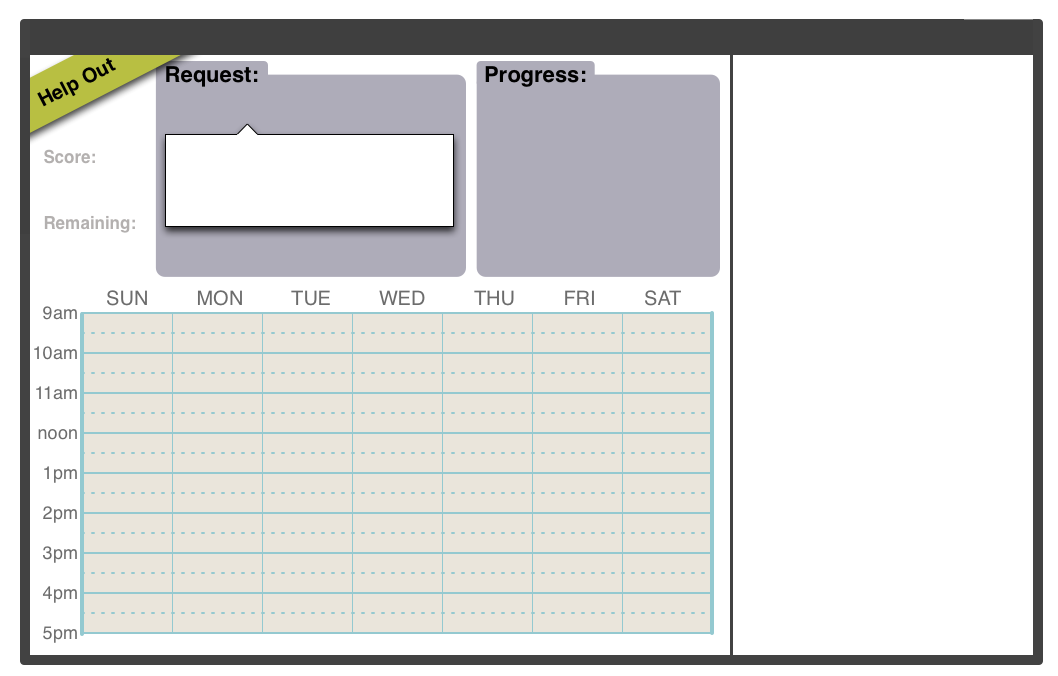
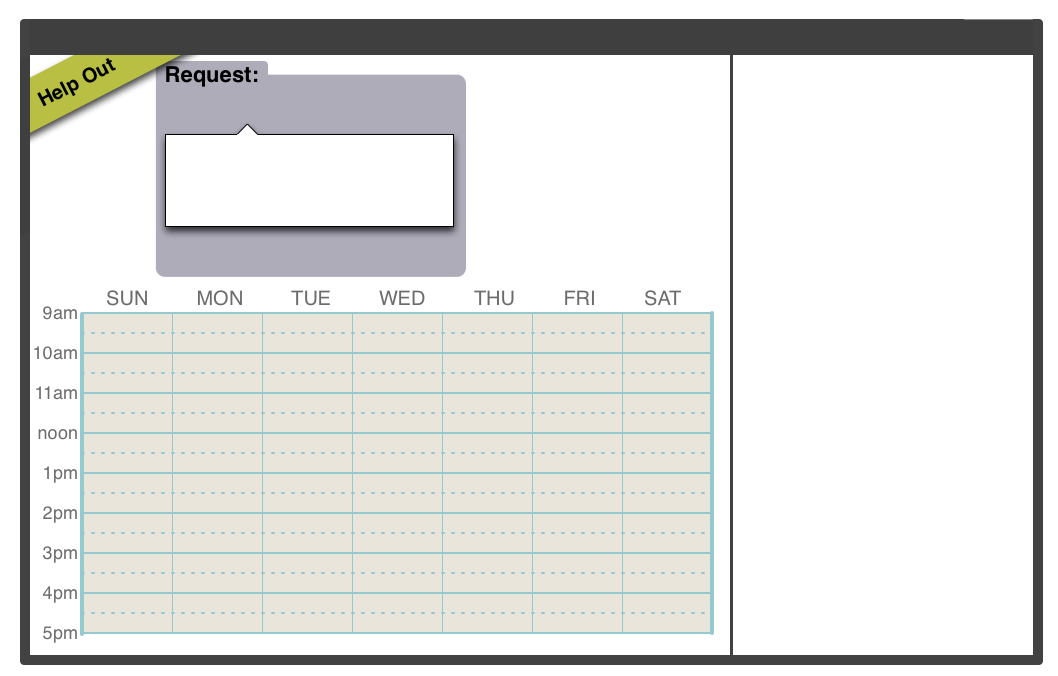
basic elements for first playtest

Changed region(s): [[0.4367, 0.0932, 0.6862, 0.4349], [0.0312, 0.3107, 0.1248, 0.3417], [0.0312, 0.2175, 0.0936, 0.2485]]

diff --git a/secretary/templates/game.html b/secretary/templates/game.html
@@ -64,8 +64,8 @@
   
   <!-- testGame: play without wizard of oz -->
   <div class="testGameView gameView">
-    <div id="remaining" class="test-blue">--</div>
-    <button id="testAddCalendar">Add Calendar</button>
+    <!-- <div id="remaining" class="test-blue">--</div> -->
+    <!-- <button id="testAddCalendar">Add Calendar</button> -->
   </div>
   
   <!-- testGame: play without wizard of oz -->

diff --git a/secretary/python/chatter/chatter.py b/secretary/python/chatter/chatter.py
@@ -47,11 +47,13 @@ def register(serializable_type, wrap_func, unwrap_func):
   __wrap_table[serializable_type] = typed_wrap
   __unwrap_table[type_name] = unwrap_func
   
-def registerCast(serializable_type, cast_to):
+def registerCast(serializable_type, cast_to, conversion_func=None):
   """Registers a class which should be cast to a simpler type. For
   example, keys are mapped to strings."""
   type_name = cast_to.__name__
-  typed_wrap = lambda obj: [type_name, cast_to(obj)]
+  if conversion_func == None:
+    conversion_func = cast_to
+  typed_wrap = lambda obj: [type_name, conversion_func(obj)]
   
   # update only the wrap table
   __wrap_table[serializable_type] = typed_wrap
@@ -76,4 +78,4 @@ register(types.NoneType,
   lambda python_None: '',
   lambda json_none: None)
 registerCast(db.Key, str)
-registerCast(users.User, str)
+registerCast(users.User, str, lambda u: str(u.nickname()))
